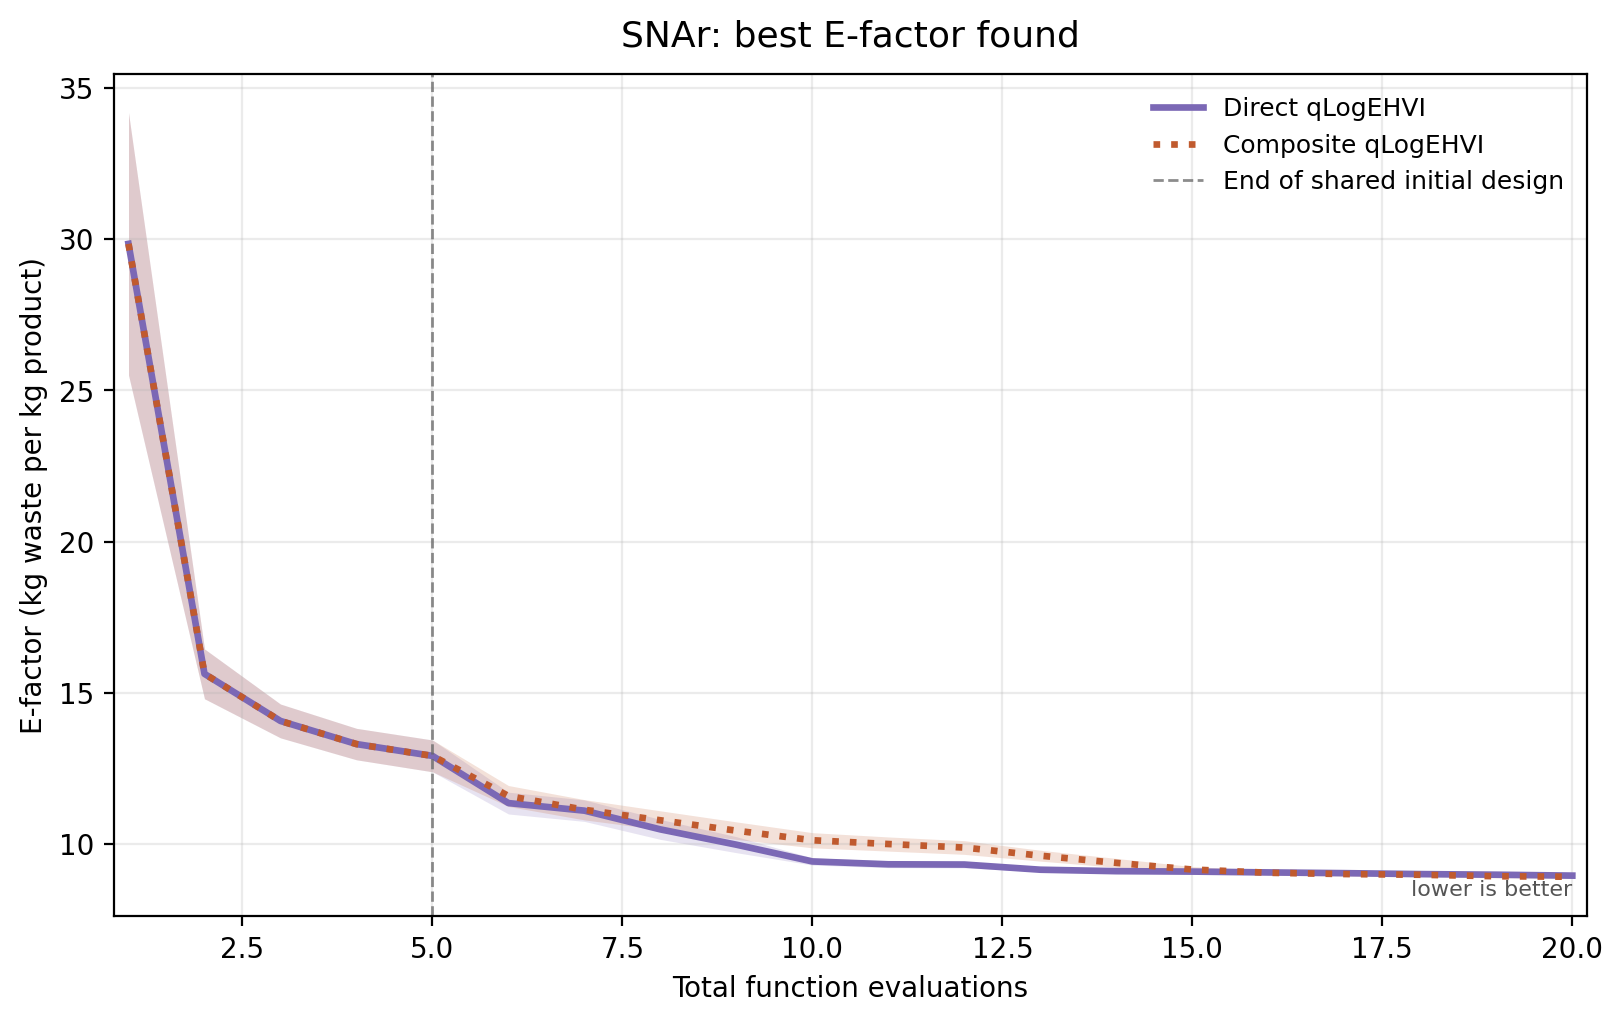
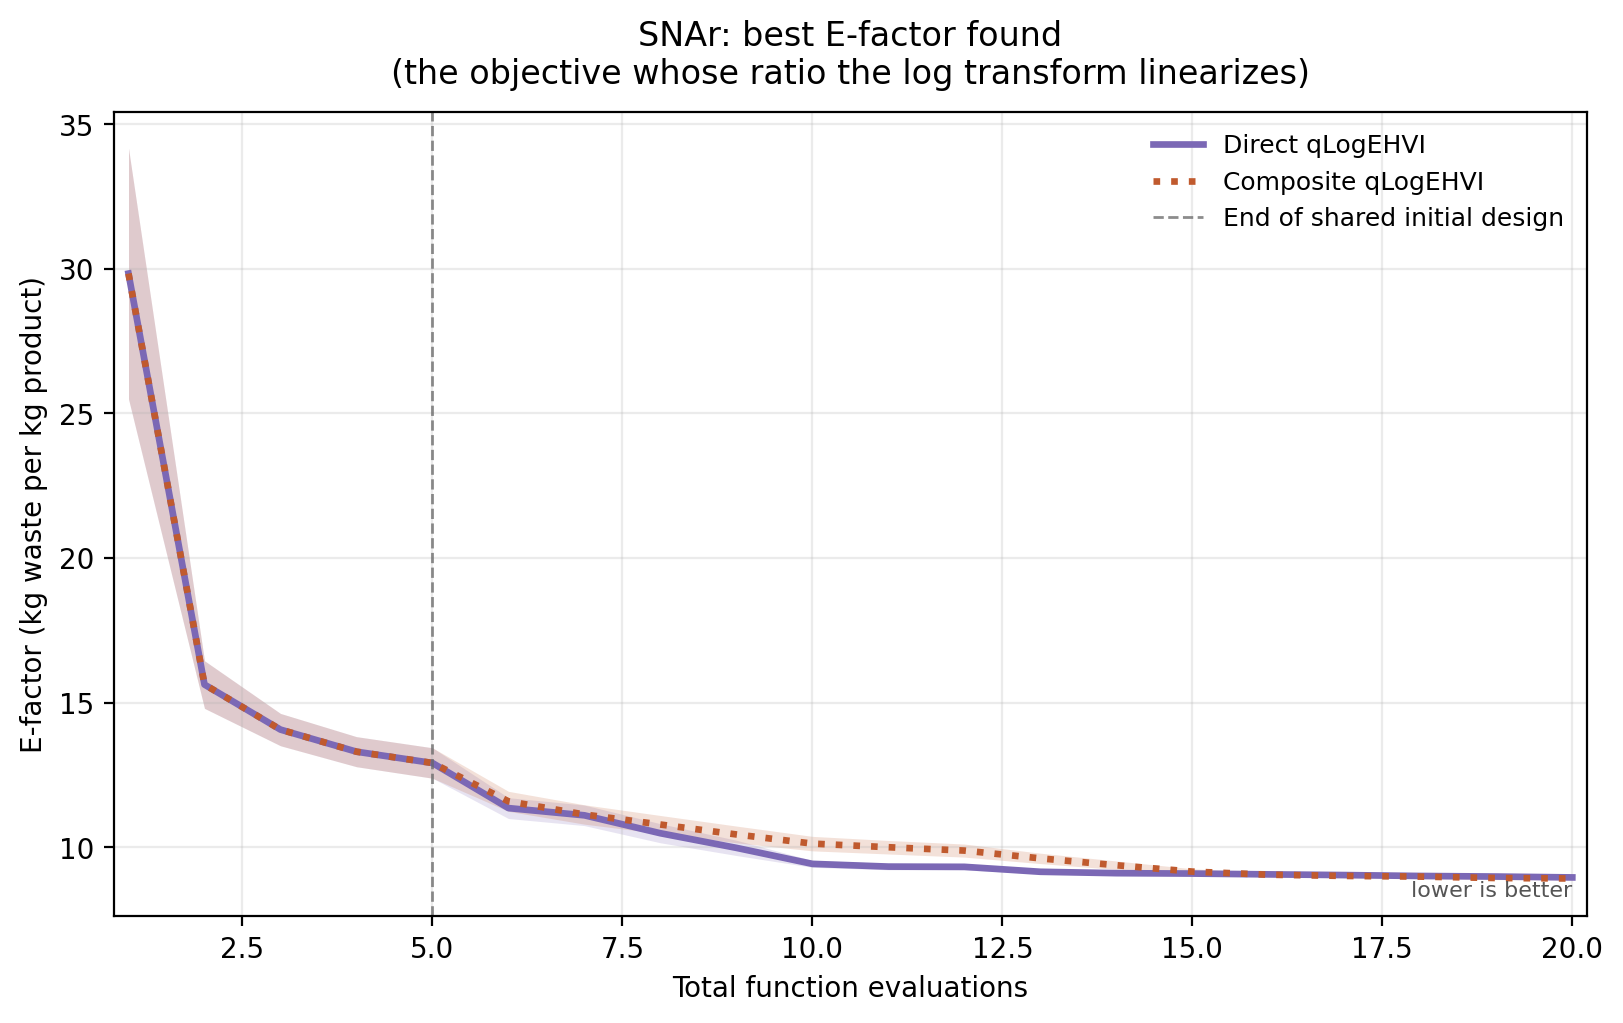
docs: name the design variables and drop f1/f2 from the SNAr write-up
The flowchart's "tau" was unexplained. It is residence time, one of the four
physical settings the optimizer picks, and it appears on two paths deliberately:
it drives the kinetics, and it fixes the flow rate q = V/tau that is routed
through the known map exactly rather than modelled.

The figures already plotted space-time yield and E-factor in physical units, but
the surrounding tables and flowchart still spoke in f1/f2. Both objectives are
now named throughout, and the flowchart's terminal boxes say what the quantities
are and which direction is better.

Claude-Session: https://claude.ai/code/session_01BHmMq3Xpy7DgZnPyESJjQP

diff --git a/plot_per_objective.py b/plot_per_objective.py
@@ -56,7 +56,7 @@ def _figure(root: Path, out: Path, trials: int, index: int, title: str,
                         color=COLORS[method], alpha=0.18, linewidth=0)
     ax.axvline(5, color="#666666", linestyle="--", linewidth=1.0, alpha=0.75,
                label="End of shared initial design")
-    ax.set_title(title, fontsize=13, pad=10)
+    ax.set_title(title, fontsize=12, pad=10)
     ax.set_xlabel("Total function evaluations")
     ax.set_ylabel(ylabel)
     ax.grid(True, alpha=0.25)
@@ -75,17 +75,20 @@ def main() -> None:
     figures = Path(sys.argv[2] if len(sys.argv) > 2 else "docs/figures")
     trials = int(sys.argv[3]) if len(sys.argv) > 3 else 50
 
-    # f1 = 1 - STY/STY_SCALE and f2 = E/E_FACTOR_SCALE, both minimized.
+    # The solver works in a normalized minimize-everything form; convert back so
+    # both axes read in the units the reaction is actually reported in.
     _figure(
         root, figures / "snar_yield.png", trials, 0,
-        "SNAr: best space-time yield found",
+        "SNAr: best space-time yield found\n"
+        "(the objective carrying the exactly-known flow rate)",
         lambda f: (1.0 - f) * snar.STY_SCALE,
         "Space-time yield (kg m$^{-3}$ h$^{-1}$)",
         "higher is better",
     )
     _figure(
         root, figures / "snar_efactor.png", trials, 1,
-        "SNAr: best E-factor found",
+        "SNAr: best E-factor found\n"
+        "(the objective whose ratio the log transform linearizes)",
         lambda f: f * snar.E_FACTOR_SCALE,
         "E-factor (kg waste per kg product)",
         "lower is better",

diff --git a/WORK_SUMMARY.md b/WORK_SUMMARY.md
@@ -131,13 +131,13 @@ time — both design variables — so it is computed exactly rather than modeled
 Worth being precise here, because the obvious answer is wrong. Measuring each
 objective separately:
 
-| what is modelled | STY | E-factor |
+| what is modelled | yield | E-factor |
 |---|---:|---:|
 | raw concentrations | **+45.8%** | +0.2% |
 | raw concentrations, flow factor held constant | **+0.0%** | — |
 | log concentrations (the benchmark as shipped) | +11% to +45% | **+17% to +33%** |
 
-**STY is linear in the intermediates, and still gains 45.8%.** `STY = const ·
+**Space-time yield is linear in the intermediates, and still gains 45.8%.** `STY = const ·
 c_product · q(x)`. That is linear in `h`, so the GP-closure argument says it
 should gain nothing — and with the flow factor held constant it gains exactly
 0.0%, as predicted. But `q = V/τ` varies **fourfold** across the domain, and
@@ -176,32 +176,40 @@ the point.
 
 ```mermaid
 flowchart TD
-    X["x in [0,1]^4<br/>normalized design"] --> UN["unnormalize"]
-    UN --> PHYS["tau 0.5-2.0 min<br/>equivalents 1-5<br/>c_in 0.1-0.5 M<br/>T 30-120 C"]
+    X["x in [0,1]^4<br/>what the optimizer picks"] --> UN["rescale to physical units"]
+    UN --> PHYS["<b>tau</b> residence time 0.5-2.0 min<br/><b>equivalents</b> pyrrolidine 1-5<br/><b>c_in</b> inlet concentration 0.1-0.5 M<br/><b>T</b> temperature 30-120 C"]
     PHYS --> RK4["RK4 integration<br/>5-species SNAr kinetics<br/>256 steps"]
     RK4 --> CONC["5 outlet concentrations c<br/>reagent, pyrrolidine, product,<br/>regioisomer, bis-adduct"]
     CONC --> LOG["log(c + 1 uM)<br/><b>transform</b>"]
     LOG --> H["h : 5 log concentrations<br/><b>this is what the GPs model</b>"]
 
     H --> EXP["exp(h) - 1 uM<br/><b>inverse transform</b>"]
-    PHYS -. "tau only, exact" .-> Q["q = V / tau<br/><b>never modelled</b>"]
+    PHYS -. "residence time, known exactly" .-> Q["q = V / tau<br/>flow rate<br/><b>never modelled</b>"]
 
     EXP --> STY["STY = 60 MW_p c_p q / V"]
     Q --> STY
     EXP --> EF["E = (rho + sum MW_i c_i) / (MW_p c_p)"]
 
-    STY --> F1["f1 = 1 - clamp(STY / 13000)"]
-    EF --> F2["f2 = clamp(E, max 1000) / 500"]
+    STY --> F1["<b>space-time yield</b><br/>kg product m-3 h-1<br/><i>maximize</i>"]
+    EF --> F2["<b>E-factor</b><br/>kg waste per kg product<br/><i>minimize</i>"]
 
     style H fill:#e8e0f5,stroke:#7B68B5,stroke-width:2px
     style Q fill:#fbe6da,stroke:#C05A2E,stroke-width:2px
     style LOG fill:#fff4cc,stroke:#c9a227
     style EXP fill:#fff4cc,stroke:#c9a227
+    style F1 fill:#e3f0e3,stroke:#3a7d44
+    style F2 fill:#e3f0e3,stroke:#3a7d44
 ```
 
 Everything below the shaded `h` box is the known map `g`, evaluated exactly on
 Monte Carlo samples of the component posteriors. The direct method skips the
-whole middle and fits two GPs straight from `x` to `f1`, `f2`.
+whole middle and fits two GPs straight from `x` to the two green boxes.
+
+Residence time `tau` appears on two paths because it does two jobs: it drives the
+kinetics — longer residence means more conversion — and it fixes the flow rate
+`q = V / tau`, which is known exactly and so never goes near a GP. The solver
+reports both objectives in a normalized minimize-everything form internally, but
+they are the two quantities named in the green boxes.
 
 Two transforms are worth calling out because they are choices, not physics:
 
@@ -218,7 +226,7 @@ No — and not approximately, but exactly not. Scaling each species by its own
 constant, `c_i -> K_i c_i`, and dividing the `K_i` back out inside `g` reproduces
 the unscaled result to four significant figures for every choice tried:
 
-| representation | advantage | f1 (yield) | f2 (E-factor) |
+| representation | overall | yield | E-factor |
 |---|---:|---:|---:|
 | raw `c`, no scaling | 15.3% | 45.8% | 0.2% |
 | `K_i` equalizing every species median to 1 | 15.3% | 45.8% | 0.2% |
@@ -239,8 +247,9 @@ construction.
 Log is not a rescaling. It is a nonlinear reshaping: it converts multiplicative
 structure into additive structure, so a concentration that varies over decades
 becomes a target with roughly uniform curvature, and — the part that matters
-here — it makes the E-factor's division into a subtraction. That is why f2 moves
-from +0.2% to +25.4% while no amount of constant scaling moves it at all.
+here — it makes the E-factor's division into a subtraction. That is why the
+E-factor moves from +0.2% to +25.4% while no amount of constant scaling moves it
+at all.
 
 If the goal were purely to keep posterior samples positive, other options exist
 (a softplus link, or modelling `sqrt(c)` as DTLZ2 does with its radial term).
